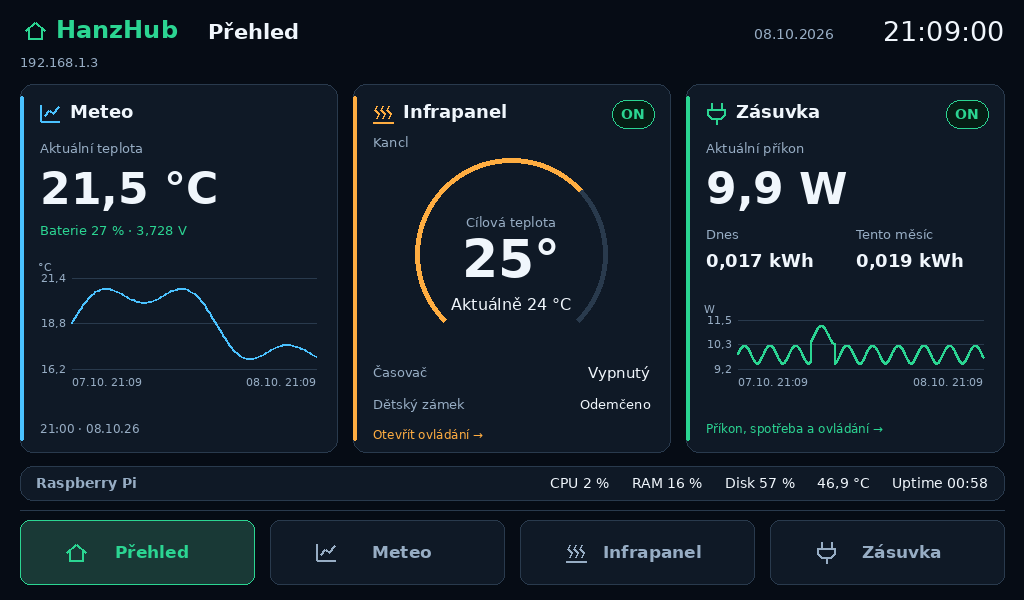
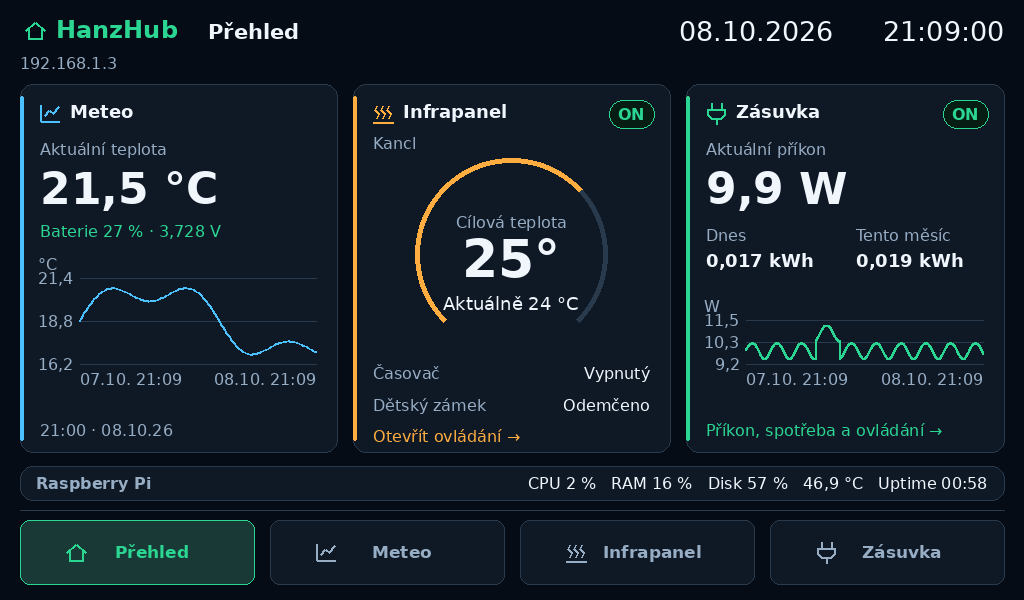
Improve readability of landscape LCD captions and match date to clock
Raise small labels and graph axes to 16 px, enlarge gauge captions, and align date and time at the same 27 px font. Refresh landscape previews and document the confirmed HDMI touch setup. Existing 43 tests pass.

diff --git a/lcd/infopanel_landscape.py b/lcd/infopanel_landscape.py
@@ -19,7 +19,7 @@ def heading(c, rect, title, icon, color, state=None, action=None):
     c.icon(icon,rect[0]+30,rect[1]+29,color)
     c.text((rect[0]+50,rect[1]+17),title,18,WHITE,True)
     if state is not None:
-        c.badge(rect[2]-16,rect[1]+16,state,14,28)
+        c.badge(rect[2]-16,rect[1]+16,state,16,28)
 
 
 def gauge(c, center, radius, state, large=False):
@@ -30,13 +30,13 @@ def gauge(c, center, radius, state, large=False):
     c.draw.arc(rect,135,405,fill=BORDER,width=7 if large else 5)
     if target is not None:
         c.draw.arc(rect,135,135+270*target/37,fill=AMBER,width=7 if large else 5)
-    c.text((x,y-40 if large else y-32),"Cílová teplota",16 if large else 13,MUTED,anchor="mm")
+    c.text((x,y-40 if large else y-32),"Cílová teplota",18 if large else 16,MUTED,anchor="mm")
     c.text((x,y+5),fmt(target,0)+("°" if target is not None else ""),76 if large else 52,WHITE,True,anchor="mm")
-    c.text((x,y+58 if large else y+50),"Aktuálně "+fmt(values.get("current_temp_c"),0," °C"),21 if large else 16,WHITE,anchor="mm")
+    c.text((x,y+58 if large else y+50),"Aktuálně "+fmt(values.get("current_temp_c"),0," °C"),21 if large else 18,WHITE,anchor="mm")
 
 
 def stat(c, x, y, label, value, size=24, color=WHITE, width=None):
-    c.text((x,y),label,13,MUTED,width=width)
+    c.text((x,y),label,16,MUTED,width=width)
     c.text((x,y+24),value,size,color,True,width=width)
 
 
@@ -61,46 +61,46 @@ def navigation(c, page):
 def overview(c, model):
     meteo,heater,plug,system = (model.get(name) or {} for name in ("meteo","heater","plug","system"))
     heading(c,(20,84,337,452),"Meteo","meteo",BLUE,action=("page","meteo"))
-    c.text((40,140),"Poslední teplota" if meteo.get("stale") else "Aktuální teplota",13,MUTED)
+    c.text((40,140),"Poslední teplota" if meteo.get("stale") else "Aktuální teplota",16,MUTED)
     c.text((40,163),fmt(meteo.get("temp"),1," °C"),44,WHITE,True)
-    c.text((40,222),"Baterie "+fmt(meteo.get("soc"),0," %")+" · "+fmt(meteo.get("vbat"),3," V"),13,
+    c.text((40,222),"Baterie "+fmt(meteo.get("soc"),0," %")+" · "+fmt(meteo.get("vbat"),3," V"),16,
            AMBER if number(meteo.get("soc")) is not None and meteo["soc"]<20 else GREEN,width=278)
-    c.chart((38,273,318,390),model.get("meteo_history",[]),BLUE,"°C",label_size=11)
-    c.text((40,421),meteo.get("last_label","Bez dat")+(" · starší data" if meteo.get("stale") else ""),12,
+    c.chart((38,273,318,390),model.get("meteo_history",[]),BLUE,"°C",label_size=16)
+    c.text((40,421),meteo.get("last_label","Bez dat")+(" · starší data" if meteo.get("stale") else ""),16,
            AMBER if meteo.get("stale") else MUTED,width=278)
 
     heading(c,(353,84,670,452),"Infrapanel","heater",AMBER,heater,("page","heater"))
-    c.text((373,134),model.get("heater_room","") or "Termostat",13,MUTED,width=277)
+    c.text((373,134),model.get("heater_room","") or "Termostat",16,MUTED,width=277)
     gauge(c,(511,254),96,heater)
-    c.text((373,364),"Časovač",13,MUTED)
-    c.text((650,364),timer_label(heater),15,WHITE,anchor="ra")
+    c.text((373,364),"Časovač",16,MUTED)
+    c.text((650,364),timer_label(heater),16,WHITE,anchor="ra")
     lock = heater.get("locked") if usable(heater) else None
-    c.text((373,396),"Dětský zámek",13,MUTED)
-    c.text((650,396),"—" if type(lock) is not bool else ("Zamčeno" if lock else "Odemčeno"),13,WHITE,anchor="ra")
-    c.text((373,427),"Chyba E1: teplotní čidlo" if heater.get("fault_code") else "Otevřít ovládání →",12,
+    c.text((373,396),"Dětský zámek",16,MUTED)
+    c.text((650,396),"—" if type(lock) is not bool else ("Zamčeno" if lock else "Odemčeno"),16,WHITE,anchor="ra")
+    c.text((373,427),"Chyba E1: teplotní čidlo" if heater.get("fault_code") else "Otevřít ovládání →",16,
            RED if heater.get("fault_code") else AMBER,width=277)
 
     heading(c,(686,84,1004,452),"Zásuvka","plug",GREEN,plug,("page","plug"))
     values = plug if usable(plug) else {}
-    c.text((706,140),"Aktuální příkon",13,MUTED)
+    c.text((706,140),"Aktuální příkon",16,MUTED)
     c.text((706,163),fmt(values.get("power_w"),1," W"),44,WHITE,True)
     stat(c,706,226,"Dnes",fmt(values.get("energy_today_kwh"),3," kWh"),18,width=134)
     stat(c,856,226,"Tento měsíc",fmt(values.get("energy_month_kwh"),3," kWh"),18,width=130)
-    c.chart((704,315,985,390),model.get("plug_history",[]),GREEN,"W",label_size=11)
-    c.text((706,421),"Příkon, spotřeba a ovládání →",12,GREEN,width=278)
+    c.chart((704,315,985,390),model.get("plug_history",[]),GREEN,"W",label_size=16)
+    c.text((706,421),"Příkon, spotřeba a ovládání →",16,GREEN,width=278)
 
     c.card((20,466,1004,500))
-    c.text((36,483),"Raspberry Pi",14,MUTED,True,anchor="lm")
-    summary = ("CPU "+fmt(system.get("cpu"),0," %")+"     RAM "+fmt(system.get("ram"),0," %")+
-               "     Disk "+fmt(system.get("disk"),0," %")+"     "+fmt(system.get("temp"),1," °C")+
-               "     Uptime "+str(system.get("uptime","—")))
-    c.text((988,483),summary,14,WHITE,anchor="rm",width=804)
+    c.text((36,483),"Raspberry Pi",16,MUTED,True,anchor="lm")
+    summary = ("CPU "+fmt(system.get("cpu"),0," %")+"   RAM "+fmt(system.get("ram"),0," %")+
+               "   Disk "+fmt(system.get("disk"),0," %")+"   "+fmt(system.get("temp"),1," °C")+
+               "   Uptime "+str(system.get("uptime","—")))
+    c.text((988,483),summary,16,WHITE,anchor="rm",width=804)
 
 
 def weather_page(c, model, window):
     meteo = model.get("meteo") or {}
     c.card((20,84,326,500),BLUE)
-    c.text((40,105),"Poslední teplota" if meteo.get("stale") else "Aktuální teplota",15,MUTED)
+    c.text((40,105),"Poslední teplota" if meteo.get("stale") else "Aktuální teplota",17,MUTED)
     c.text((40,135),fmt(meteo.get("temp"),1," °C"),44,WHITE,True)
     battery_color = AMBER if number(meteo.get("soc")) is not None and meteo["soc"]<20 else GREEN
     stat(c,40,213,"Baterie",fmt(meteo.get("soc"),0," %"),27,color=battery_color)
@@ -110,26 +110,26 @@ def weather_page(c, model, window):
     stat(c,40,302,"Minimum",fmt(min(values) if values else None,1," °C"),24,width=130)
     stat(c,187,302,"Maximum",fmt(max(values) if values else None,1," °C"),24,width=120)
     c.draw.line((40,387,306,387),fill=BORDER)
-    c.text((40,407),"Poslední měření",13,MUTED)
+    c.text((40,407),"Poslední měření",16,MUTED)
     c.text((40,430),meteo.get("last_label","Bez dat"),17,WHITE,width=266)
-    c.text((40,468),"Starší data" if meteo.get("stale") else "Záznamy z meteostanice",13,
+    c.text((40,468),"Starší data" if meteo.get("stale") else "Záznamy z meteostanice",16,
            AMBER if meteo.get("stale") else MUTED,width=266)
     c.card((342,84,1004,500))
     c.text((364,112),"Teplota",20,WHITE,True)
     window_buttons(c,window)
-    c.chart((362,207,982,441),samples,BLUE,"°C",label_size=13,line_width=3)
-    c.text((364,473),"Skutečná měření · posledních "+str(window)+" hodin",13,MUTED,width=610)
+    c.chart((362,207,982,441),samples,BLUE,"°C",label_size=16,line_width=3)
+    c.text((364,473),"Skutečná měření · posledních "+str(window)+" hodin",16,MUTED,width=610)
 
 
 def heater_page(c, model):
     heater = model.get("heater") or {}
     active = usable(heater) and not model.get("busy")
     c.card((20,84,526,500),AMBER)
-    badge_left = c.badge(506,102,heater,15,30)
+    badge_left = c.badge(506,102,heater,16,30)
     c.text((40,105),model.get("heater_name","") or "Infrapanel",20,WHITE,True,width=badge_left-56)
-    c.text((40,137),model.get("heater_room","") or "Termostat",14,MUTED,width=330)
+    c.text((40,137),model.get("heater_room","") or "Termostat",16,MUTED,width=330)
     gauge(c,(273,298),132,heater,large=True)
-    c.text((40,469),"Chyba E1: teplotní čidlo" if heater.get("fault_code") else "Cílová teplota 0–37 °C",14,
+    c.text((40,469),"Chyba E1: teplotní čidlo" if heater.get("fault_code") else "Cílová teplota 0–37 °C",16,
            RED if heater.get("fault_code") else MUTED,width=466)
     c.card((542,84,1004,500))
     c.text((562,107),"Nastavení termostatu",19,WHITE,True)
@@ -137,7 +137,7 @@ def heater_page(c, model):
     can_temp = active and type(target) is int and 0<=target<=37
     c.button((562,155,640,219),"−",("command","heater","target_temp_c",target-1 if can_temp else 0),
              active=can_temp and target>0,size=32)
-    c.text((773,174),"Nastavený cíl",13,MUTED,anchor="mm")
+    c.text((773,174),"Nastavený cíl",16,MUTED,anchor="mm")
     c.text((773,202),fmt(target if usable(heater) else None,0," °C"),25,WHITE,True,anchor="mm")
     c.button((906,155,984,219),"+",("command","heater","target_temp_c",target+1 if can_temp else 0),
              active=can_temp and target<37,size=30)
@@ -147,7 +147,7 @@ def heater_page(c, model):
     c.button((562,322,984,386),"Odemknout" if heater.get("locked") else "Dětský zámek: zamknout",
              ("command","heater","locked",not heater.get("locked")),active=active and type(heater.get("locked")) is bool,size=18)
     c.button((562,404,984,468),"Časovač: "+timer_label(heater),("timer","open"),active=active,size=19)
-    c.text((773,485),"Změny potvrzuje zařízení",12,MUTED,anchor="mm")
+    c.text((773,485),"Změny potvrzuje zařízení",16,MUTED,anchor="mm")
 
 
 def plug_page(c, model, window):
@@ -155,9 +155,9 @@ def plug_page(c, model, window):
     values = plug if usable(plug) else {}
     active = usable(plug) and not model.get("busy")
     c.card((20,84,426,500),GREEN)
-    badge_left = c.badge(406,102,plug,15,30)
+    badge_left = c.badge(406,102,plug,16,30)
     c.text((40,105),model.get("plug_name","") or "Zásuvka",19,WHITE,True,width=badge_left-56)
-    c.text((40,138),model.get("plug_room","") or "Aktuální příkon",14,MUTED,width=366)
+    c.text((40,138),model.get("plug_room","") or "Aktuální příkon",16,MUTED,width=366)
     c.text((223,206),fmt(values.get("power_w"),1," W"),54,WHITE,True,anchor="mm")
     stat(c,40,266,"Dnes",fmt(values.get("energy_today_kwh"),3," kWh"),23,width=176)
     stat(c,234,266,"Tento měsíc",fmt(values.get("energy_month_kwh"),3," kWh"),23,width=172)
@@ -169,8 +169,8 @@ def plug_page(c, model, window):
     c.card((442,84,1004,500))
     c.text((464,112),"Příkon",20,WHITE,True)
     window_buttons(c,window)
-    c.chart((462,207,982,441),model.get("plug_history",[]),GREEN,"W",label_size=13,line_width=3)
-    c.text((464,473),"Historie na HUBu · posledních "+str(window)+" hodin",13,MUTED,width=510)
+    c.chart((462,207,982,441),model.get("plug_history",[]),GREEN,"W",label_size=16,line_width=3)
+    c.text((464,473),"Historie na HUBu · posledních "+str(window)+" hodin",16,MUTED,width=510)
 
 
 def timer_modal(c, model):
@@ -195,10 +195,10 @@ def render_landscape(page, model, window, timer_dialog, size, font_path):
     c.text((56,15),"HanzHub",24,GREEN,True)
     c.text((208,19),"Přehled" if page=="home" else TITLES.get(page,"HanzHub"),21,WHITE,True)
     c.text((1004,15),now.strftime("%H:%M:%S"),27,WHITE,anchor="ra")
-    c.text((834,26),now.strftime("%d.%m.%Y"),14,MUTED,anchor="ra")
+    c.text((834,15),now.strftime("%d.%m.%Y"),27,WHITE,anchor="ra")
     message = model.get("message")
     subtitle = message or (system.get("ip") or "Bez sítě")
-    c.text((20,54),subtitle,13,AMBER if message else MUTED,width=984)
+    c.text((20,54),subtitle,16,AMBER if message else MUTED,width=984)
     {"home":overview,"meteo":lambda canvas,data:weather_page(canvas,data,window),
      "heater":heater_page,"plug":lambda canvas,data:plug_page(canvas,data,window)}.get(page,overview)(c,model)
     navigation(c,page)

diff --git a/lcd/preview_infopanel.py b/lcd/preview_infopanel.py
@@ -53,7 +53,7 @@ def landscape_previews(output):
         x,y = 10+(i%2)*532,38+(i//2)*340
         composite.paste(image.resize((512,300),Image.Resampling.LANCZOS),(x,y))
         draw.text((x+256,y-20),"Přehled" if page=="home" else TITLES[page],font=font(16,True),fill=MUTED,anchor="mm")
-    draw.text((532,708),"HanzHub · Infopanel v2.1 · ukázková data · obrazovky 1024 × 600",font=font(13),fill=MUTED,anchor="mm")
+    draw.text((532,708),"HanzHub · Infopanel v2.1.1 · ukázková data · obrazovky 1024 × 600",font=font(13),fill=MUTED,anchor="mm")
     composite.save(output/"infopanel-landscape.png")
     model = demo_model()
     model.update(heater={"online":False},plug={"online":False},meteo={})

diff --git a/lcd/infopanel_ui.py b/lcd/infopanel_ui.py
@@ -143,7 +143,7 @@ class Canvas:
         points.sort()
         if len(points) < 2 or points[0][0] == points[-1][0]:
             self.text(((x0+x1)/2,(y0+y1)/2-8), "Zatím málo dat", 17, MUTED, anchor="mm")
-            self.text(((x0+x1)/2,(y0+y1)/2+16), "Graf se doplní při načítání", 11, MUTED, anchor="mm")
+            self.text(((x0+x1)/2,(y0+y1)/2+16), "Graf se doplní při načítání", max(11,label_size), MUTED, anchor="mm", width=x1-x0-8)
             return
         values = [v for _,v in points]
         low, high = min(values), max(values)

diff --git a/lcd/infopanel.py b/lcd/infopanel.py
@@ -25,7 +25,7 @@ from lcd_info import (FBIOGET_FSCREENINFO, FBIOGET_VSCREENINFO, fb_fix_screeninf
                       fb_var_screeninfo, fb_ioctl_struct, rgb_to_rgb565_bytes,
                       _try_parse_line, get_cpu_temp_c, get_iface_ip, get_uptime_str)
 
-VERSION = "2.1.0"
+VERSION = "2.1.1"
 DEFAULTS = {"fb":"/dev/fb0","rotate":0,"touch":"auto","layout":"auto",
             "font":"/usr/share/fonts/truetype/dejavu/DejaVuSans.ttf",
             "meteo_csv":"/opt/meteo3/meteo_log.csv","meteo_refresh":15,"meteo_stale":3600,

diff --git a/README.md b/README.md
@@ -1,6 +1,6 @@
 # HanzHub · Infopanel v2
 
-Dotykový informační panel pro Raspberry Pi: stručný přehled systému, Meteo a IoT, graf teploty, ovládání infrapanelu BOT IPH2 a zásuvky TP-Link Tapo P110M. Grafika navazuje na tmavý styl HanzHubu. Verze **2.1.0** podporuje samostatné rozložení **320 × 480 na výšku** a **1024 × 600 na šířku**, vhodné pro Waveshare 7inch HDMI LCD (C).
+Dotykový informační panel pro Raspberry Pi: stručný přehled systému, Meteo a IoT, graf teploty, ovládání infrapanelu BOT IPH2 a zásuvky TP-Link Tapo P110M. Grafika navazuje na tmavý styl HanzHubu. Verze **2.1.1** podporuje samostatné rozložení **320 × 480 na výšku** a **1024 × 600 na šířku**, vhodné pro Waveshare 7inch HDMI LCD (C).
 
 ![Infopanel na šířku – přehled s ukázkovými daty](docs/landscape-home.png)
 
@@ -71,6 +71,8 @@ sudo python3 lcd/infopanel.py --diagnose
 ```
 
 Automatický výběr dotyku funguje při právě jednom podporovaném vstupu. Při více vstupech instalace skončí s vysvětlením a původní LCD zůstane běžet. Trvalá cesta `/dev/input/by-path/…` je vhodnější než číslo `eventX`, pokud ji ovladač poskytuje.
+
+Verze **2.1.1** zvětšuje drobné popisky a osy grafů v rozložení na šířku na 16 px. Datum má stejný font, velikost 27 px a zarovnání jako čas. Aktualizace zachovává konfiguraci displeje, dotyku i zařízení.
 
 ## Přechod na 7″ HDMI displej na šířku
 
@@ -195,4 +197,4 @@ python3 -m venv .venv
 
 Projekt navazuje na framebuffer a robustní Meteo parser z [LoT/lcd](https://github.com/H0nz4k/LoT/tree/main/lcd). Původní `lcd_info.py` a `infrapanel_widget.py` jsou zde kvůli společným hardwarovým funkcím a formátu logu; hlavní aplikace v2 je `lcd/infopanel.py`.
 
-**Ověření na skutečném LCD:** uživatel potvrdil fungující výškový panel včetně přepínání stránek a ovládání zařízení. Nové rozložení na šířku je ověřeno vykreslením a automatickými testy; na konkrétním 7″ HDMI LCD je ještě potřeba ověřit framebuffer a USB dotyk. Testy ověřují také kalibraci prohozených os ve širokém rozlišení, shodu ovládacích oblastí s obrazem a blokování příkazů při nedostupnosti nebo otevřeném dialogu. Přesný ovladač, rozlišení, otočení a dotykové zařízení Raspberry se ověřují při nasazení pomocí diagnostiky a čtyřbodové kalibrace.
+**Ověření na skutečném LCD:** uživatel potvrdil fungující výškový panel včetně přepínání stránek a ovládání zařízení. Uživatel také potvrdil obraz i dotykové přepínání stránek na 7″ HDMI LCD 1024 × 600. Zvětšené popisky verze 2.1.1 jsou ověřeny v náhledech a automatických testech; jejich čitelnost na fyzickém LCD se posoudí po aktualizaci. Testy ověřují také kalibraci prohozených os ve širokém rozlišení, shodu ovládacích oblastí s obrazem a blokování příkazů při nedostupnosti nebo otevřeném dialogu. Přesný ovladač, rozlišení, otočení a dotykové zařízení Raspberry se ověřují při nasazení pomocí diagnostiky a čtyřbodové kalibrace.
